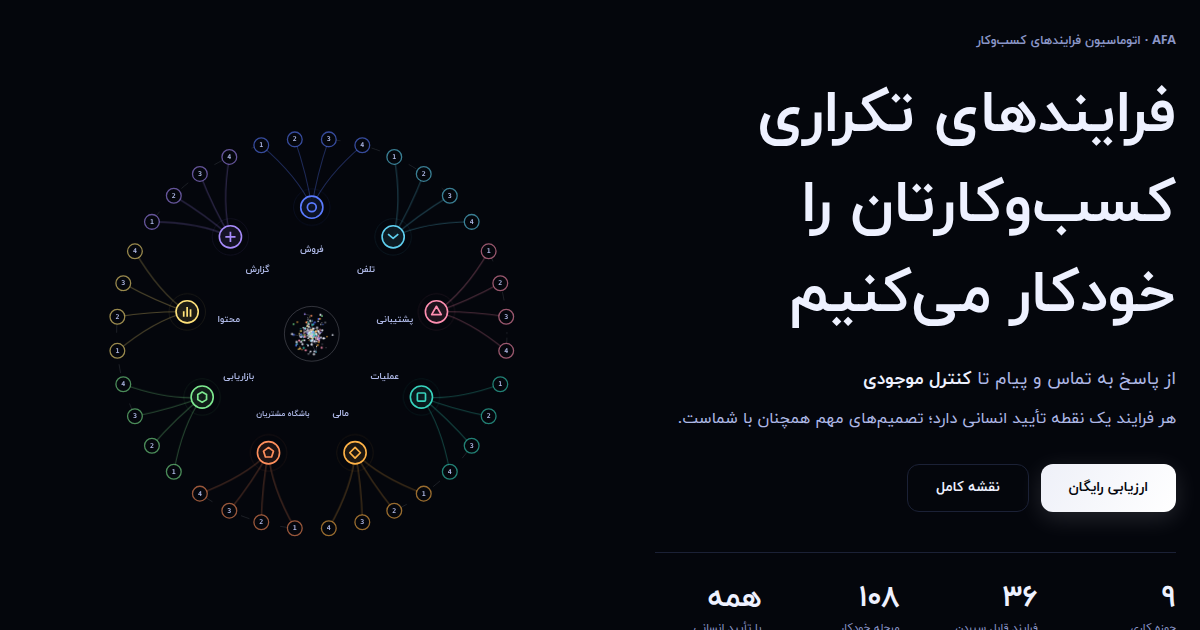
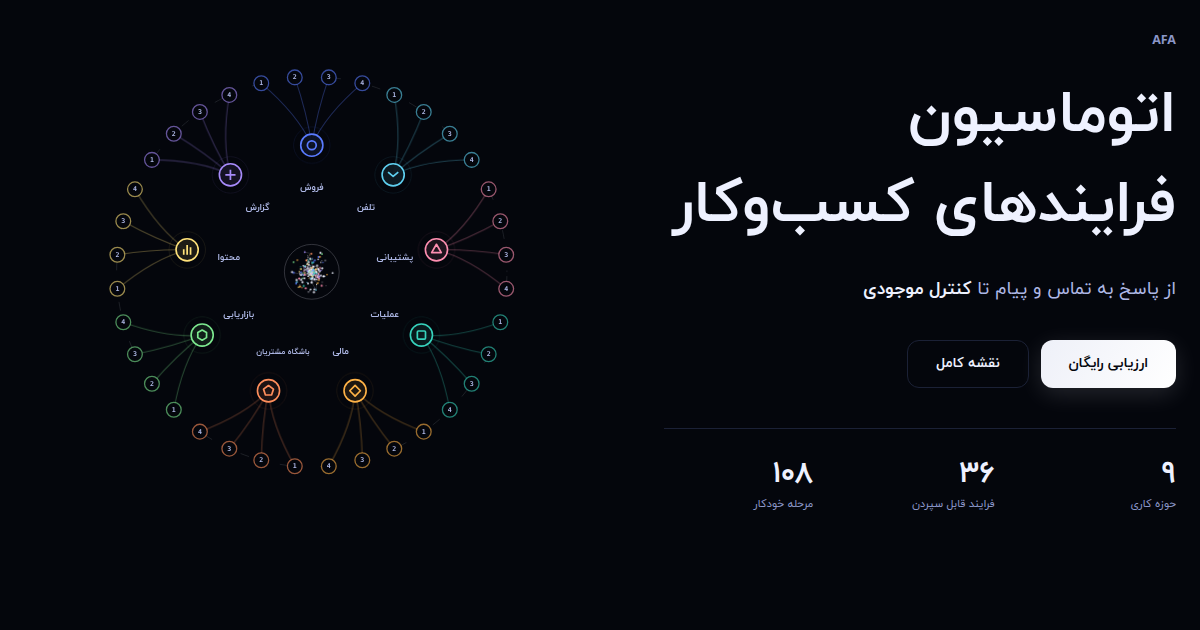
Hero title becomes the plain name of the work; drop its human-checkpoint copy
Two direct notes. The headline is now what the company sells, stated plainly:
«اتوماسیون فرایندهای کسبوکار» / "Business process automation". No verb, no
instruction to the reader. The eyebrow shrank to «AFA», since it had been
carrying the same words the headline now carries.

The human-checkpoint line came out of the hero, and so did the fourth stat
that repeated it, which leaves three counts over one hairline: nine domains,
thirty-six processes, a hundred and eight automated stages.

Scope note: this is the HERO only. The promise itself is untouched and still
sits where it is actually demonstrated rather than asserted: the green
checkpoint squares on the opened map, the automation run that stops on
«منتظر تأیید شما», the ladder in every process window, and the questions at
the foot of the page.

The site keeps its own spelling, «فرایند», rather than the «فرآیند» in the
note; both are correct Persian and the first is already used in forty-odd
strings, so changing one would have been the inconsistency.

Claude-Session: https://claude.ai/code/session_015BLkfHjPPSwAr5JaNHyunu

diff --git a/src/components/sections/hero.tsx b/src/components/sections/hero.tsx
@@ -106,9 +106,7 @@ export function Hero() {
               <RotatingWords words={[t('rot1'), t('rot2'), t('rot3'), t('rot4'), t('rot5'), t('rot6')]} />
             </p>
 
-            <p className="mt-3 max-w-lg text-base leading-relaxed text-muted">{t('sub')}</p>
-
-            <div className="mt-8 flex flex-col gap-3 sm:flex-row">
+            <div className="mt-9 flex flex-col gap-3 sm:flex-row">
               <a href="#contact" className={`${action} bg-brand text-bg-950 shadow-brand`}>
                 {t('ctaPrimary')}
               </a>
@@ -120,9 +118,13 @@ export function Hero() {
               </Link>
             </div>
 
-            {/* Structural counts, over one hairline. No cards. */}
-            <dl className="mt-10 grid max-w-xl grid-cols-2 gap-x-8 gap-y-6 border-t border-border pt-7 sm:grid-cols-4">
-              {(['domains', 'processes', 'stages', 'human'] as const).map((stat) => (
+            {/* Structural counts, over one hairline. No cards. The human
+                checkpoint used to be a fourth column here and a sentence
+                above; both came out by direct request. The promise itself is
+                unchanged and still stated where it is demonstrated: on the
+                map, in the automation demo, and in the questions. */}
+            <dl className="mt-10 grid max-w-lg grid-cols-3 gap-x-8 gap-y-6 border-t border-border pt-7">
+              {(['domains', 'processes', 'stages'] as const).map((stat) => (
                 <div key={stat}>
                   <dd className="text-2xl font-extrabold tabular-nums text-ink sm:text-3xl">
                     {t(`stats.${stat}.value`)}
